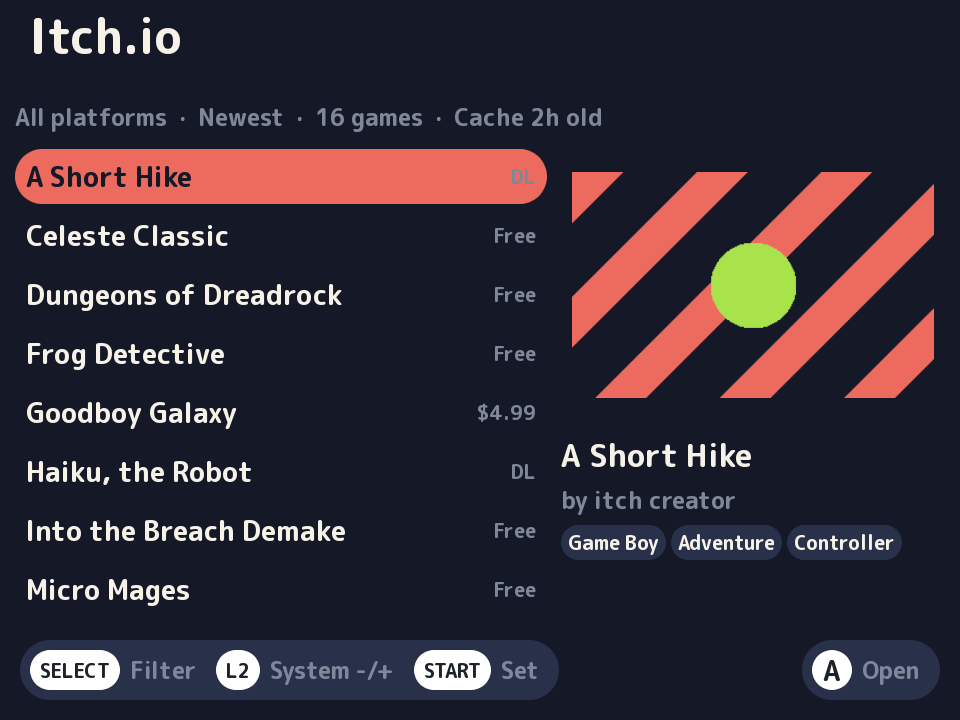
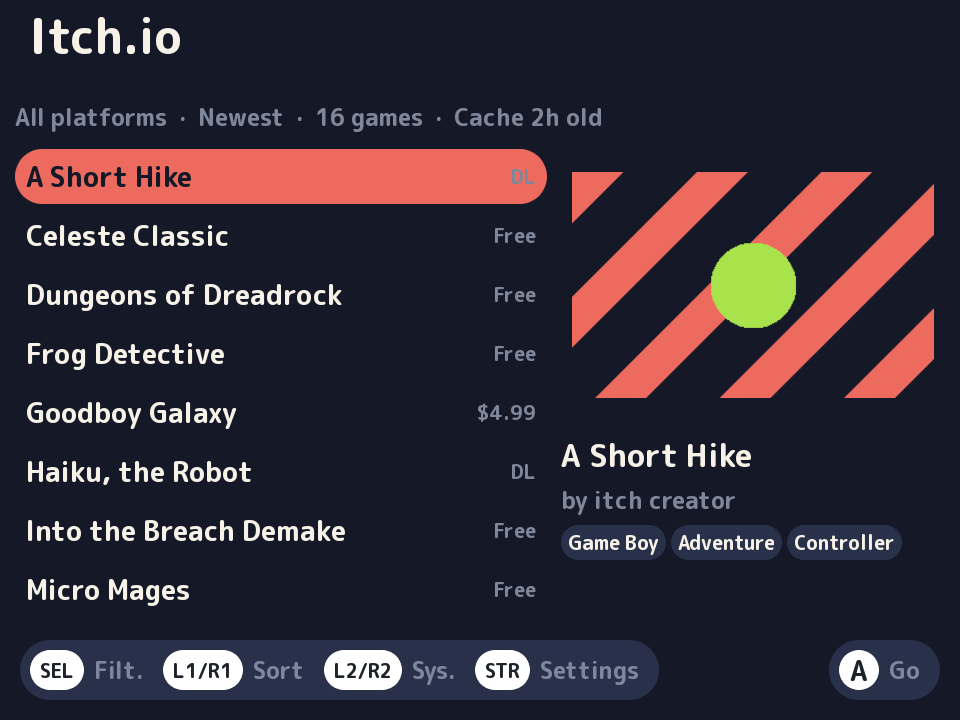
fix(ui): fit main footer controls

Changed region(s): [[0.0625, 0.8861, 0.6875, 0.9778], [0.8125, 0.8861, 0.9688, 0.9778]]

diff --git a/internal/catui/primitives.go b/internal/catui/primitives.go
@@ -58,10 +58,12 @@ func ComputeScreenLayout(metrics LayoutMetrics, subHeaderHeight int) ScreenLayou
 }
 
 type FooterHint struct {
-	Button      Button
-	Label       string
-	NarrowLabel string
-	IsConfirm   bool
+	Button           Button
+	ButtonText       string
+	NarrowButtonText string
+	Label            string
+	NarrowLabel      string
+	IsConfirm        bool
 }
 
 type FooterGroups struct {
@@ -78,15 +80,24 @@ func (g FooterGroups) Items() []FooterItem {
 // ResolveFooterGroups preserves Catastrophe's left/action and right/confirm
 // grouping, switching all labels to their narrow variants when the estimated
 // pixel width would overlap. Catastrophe remains the final footer renderer.
-func ResolveFooterGroups(hints []FooterHint, availableWidth, badgeWidth, itemGap int, measure func(string) int) FooterGroups {
+func ResolveFooterGroups(hints []FooterHint, availableWidth, badgeWidth, itemGap int,
+	measureLabel, measureButton func(string) int) FooterGroups {
 	labels := make([]string, len(hints))
+	buttonTexts := make([]string, len(hints))
 	for i := range hints {
 		labels[i] = hints[i].Label
+		buttonTexts[i] = hints[i].ButtonText
 	}
 	estimate := func() int {
 		total := itemGap
 		for i := range hints {
-			total += badgeWidth + measure(labels[i]) + itemGap
+			resolvedBadgeWidth := badgeWidth
+			if buttonTexts[i] != "" {
+				// Cat renders multi-character overrides in its tiny font with a
+				// half-badge inset.
+				resolvedBadgeWidth = badgeWidth/2 + measureButton(buttonTexts[i])
+			}
+			total += resolvedBadgeWidth + measureLabel(labels[i]) + itemGap
 		}
 		return total
 	}
@@ -95,12 +106,15 @@ func ResolveFooterGroups(hints []FooterHint, availableWidth, badgeWidth, itemGap
 			if hints[i].NarrowLabel != "" {
 				labels[i] = hints[i].NarrowLabel
 			}
+			if hints[i].NarrowButtonText != "" {
+				buttonTexts[i] = hints[i].NarrowButtonText
+			}
 		}
 	}
 
 	groups := FooterGroups{}
 	for i, hint := range hints {
-		item := FooterItem{Button: hint.Button, Label: labels[i], IsConfirm: hint.IsConfirm}
+		item := FooterItem{Button: hint.Button, ButtonText: buttonTexts[i], Label: labels[i], IsConfirm: hint.IsConfirm}
 		if hint.IsConfirm {
 			groups.Right = append(groups.Right, item)
 		} else {
@@ -158,6 +172,8 @@ func (ui *Composer) BeginScreen(spec ScreenSpec) (*ScreenFrame, error) {
 	groups := ResolveFooterGroups(spec.Footer, width-ui.BasePadding*2,
 		ui.ctx.Scale(34), ui.ctx.Scale(14), func(text string) int {
 			return ui.ctx.MeasureText(FontSmall, text)
+		}, func(text string) int {
+			return ui.ctx.MeasureText(FontTiny, text)
 		})
 	footer := groups.Items()
 	layout := ComputeScreenLayout(LayoutMetrics{

diff --git a/internal/catui/primitives_test.go b/internal/catui/primitives_test.go
@@ -86,21 +86,24 @@ func TestImageGalleryAndKeyboardGeometry(t *testing.T) {
 
 func TestFooterGroupingAndNarrowFallback(t *testing.T) {
 	hints := []FooterHint{
-		{Button: ButtonB, Label: "Previous page", NarrowLabel: "Prev"},
+		{Button: ButtonB, ButtonText: "L1/L2", NarrowButtonText: "L1/2", Label: "Previous page", NarrowLabel: "Prev"},
 		{Button: ButtonX, Label: "Delete previous character", NarrowLabel: "Delete"},
 		{Button: ButtonA, Label: "Confirm entered value", NarrowLabel: "Done", IsConfirm: true},
 	}
 	measure := func(value string) int { return len(value) * 10 }
-	wide := ResolveFooterGroups(hints, 1000, 30, 10, measure)
+	wide := ResolveFooterGroups(hints, 1000, 30, 10, measure, measure)
 	if wide.Left[0].Label != "Previous page" || wide.Right[0].Label != "Confirm entered value" {
 		t.Fatalf("wide labels = %+v", wide)
 	}
-	narrow := ResolveFooterGroups(hints, 360, 30, 10, measure)
+	narrow := ResolveFooterGroups(hints, 360, 30, 10, measure, measure)
 	if got := []string{narrow.Left[0].Label, narrow.Left[1].Label, narrow.Right[0].Label}; !reflect.DeepEqual(got, []string{"Prev", "Delete", "Done"}) {
 		t.Fatalf("narrow labels = %v", got)
 	}
 	if narrow.Right[0].IsConfirm != true {
 		t.Fatal("confirm hint lost right-group identity")
+	}
+	if narrow.Left[0].ButtonText != "L1/2" {
+		t.Fatalf("narrow button-text override = %q, want L1/2", narrow.Left[0].ButtonText)
 	}
 }
 

diff --git a/internal/catui/catui.go b/internal/catui/catui.go
@@ -275,9 +275,10 @@ func (c *Context) HintsEnabled() bool { return C.catui_hints_enabled() != 0 }
 func (c *Context) FooterHeight() int  { return int(C.catui_footer_height()) }
 
 type FooterItem struct {
-	Button    Button
-	Label     string
-	IsConfirm bool
+	Button     Button
+	Label      string
+	ButtonText string
+	IsConfirm  bool
 }
 
 func (c *Context) DrawFooter(items []FooterItem) error {
@@ -294,11 +295,17 @@ func (c *Context) DrawFooter(items []FooterItem) error {
 	defer C.free(memory)
 	cItems := unsafe.Slice((*C.catui_footer_item)(memory), len(items))
 	labels := make([]*C.char, len(items))
+	buttonTexts := make([]*C.char, len(items))
 	for i, item := range items {
 		labels[i] = C.CString(item.Label)
 		defer C.free(unsafe.Pointer(labels[i]))
 		cItems[i].button = C.int(item.Button)
 		cItems[i].label = labels[i]
+		if item.ButtonText != "" {
+			buttonTexts[i] = C.CString(item.ButtonText)
+			defer C.free(unsafe.Pointer(buttonTexts[i]))
+			cItems[i].button_text = buttonTexts[i]
+		}
 		cItems[i].is_confirm = 0
 		if item.IsConfirm {
 			cItems[i].is_confirm = 1

diff --git a/internal/catui/main_list_screen.go b/internal/catui/main_list_screen.go
@@ -82,10 +82,11 @@ func (screen *MainListScreen) Draw() error {
 		footer = append(footer, FooterHint{Button: ButtonA, Label: "Retry", IsConfirm: true})
 	case appui.ListReady, appui.ListEmpty:
 		footer = []FooterHint{
-			{Button: ButtonSelect, Label: "Filter"},
-			{Button: ButtonL2, Label: "System -/+", NarrowLabel: "System"},
-			{Button: ButtonStart, Label: "Set"},
-			{Button: ButtonA, Label: "Open", IsConfirm: true},
+			{Button: ButtonSelect, ButtonText: "SEL", Label: "Filt."},
+			{Button: ButtonL1, ButtonText: "L1/R1", Label: "Sort"},
+			{Button: ButtonL2, ButtonText: "L2/R2", Label: "Sys."},
+			{Button: ButtonStart, ButtonText: "STR", Label: "Settings", NarrowLabel: "Set"},
+			{Button: ButtonA, ButtonText: "A", Label: "Go", IsConfirm: true},
 		}
 	}
 	frame, err := screen.ui.BeginScreen(ScreenSpec{

diff --git a/scripts/public-assets-check.py b/scripts/public-assets-check.py
@@ -11,7 +11,7 @@ import struct
 ROOT = pathlib.Path(__file__).resolve().parent.parent
 EXPECTED = {
[6 lines of base64/hex data omitted]

diff --git a/internal/catui/cat_bridge.c b/internal/catui/cat_bridge.c
@@ -256,7 +256,7 @@ int catui_draw_footer(const catui_footer_item *items, int count) {
         converted[i].button = (cat_button)items[i].button;
         converted[i].label = items[i].label;
         converted[i].is_confirm = items[i].is_confirm != 0;
-        converted[i].button_text = NULL;
+        converted[i].button_text = items[i].button_text;
     }
 #if SDL_VERSION_ATLEAST(2, 0, 10)
     /* A footer draws its outer group and inner button pills in one call. The

diff --git a/internal/catui/cat_bridge.h b/internal/catui/cat_bridge.h
@@ -30,6 +30,7 @@ typedef struct {
     int button;
     const char *label;
     int is_confirm;
+    const char *button_text;
 } catui_footer_item;
 
 enum {

diff --git a/docs/screenshots/README.md b/docs/screenshots/README.md
@@ -17,7 +17,7 @@ and copies only the eight locked public states below.
 
 | Screenshot | Fixture source | SHA-256 |
 | --- | --- | --- |
[5 lines of base64/hex data omitted]

diff --git a/docs/user-guide.md b/docs/user-guide.md
@@ -26,6 +26,8 @@ usable if refresh fails.
   sorts it moves by one visible page.
 - L1/R1 changes sort.
 - L2/R2 changes platform category.
+- The footer groups L1/R1 as Sort and L2/R2 as System so both shoulder-button
+  actions remain explicit without overflowing the main-list footer.
 - Select opens Filter; Select applies staged filter changes.
 - Y clears staged search, platform, and sort values inside Filter.
 - A opens the selected game.
